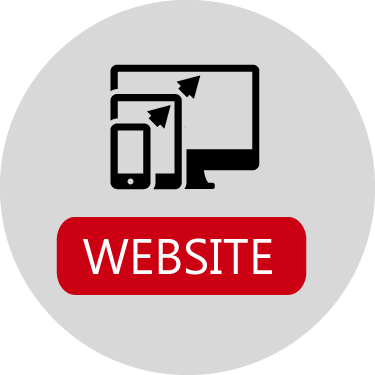
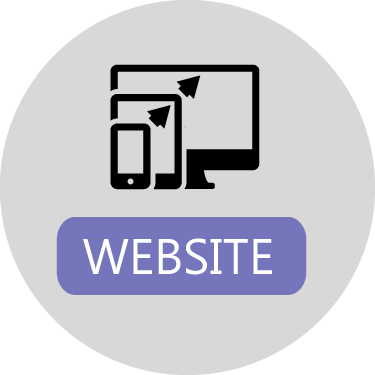
Removed Red from headings - too distracting

Changed region(s): [[0.1467, 0.5573, 0.8213, 0.792]]

diff --git a/templates/story_dashboard.html b/templates/story_dashboard.html
@@ -70,9 +70,9 @@
 		<section class="container">
 			<ul id='improved' class="js-accordion-container">
 			  <hr/>
-				<li><a href='#' class='head js-accordion-header brand-purple align-right'>IVRS  <span class="fa fa-angle-down"></span></a>
+				<li><a href='#' class='head js-accordion-header brand-turquoise align-right'>IVRS  <span class="fa fa-angle-down"></span></a>
 					<div class='content' id="ivrs">
-						<h2 class="heading-border brand-purple">IVRS Summary</h2> 
+						<h2 class="heading-border brand-turquoise">IVRS Summary</h2> 
 						<div class="chart-parent">
 			  	    <div id="ivrssummary" class="js-summary-container"></div>
 				  	</div><!--end inner parent-->
@@ -94,9 +94,9 @@
 					</div>
 				</li>
 				<hr/>
-				<li><a href='#' class='head js-accordion-header brand-red align-right'>WEBSITE  <span class="fa fa-angle-down"></span></a>
+				<li><a href='#' class='head js-accordion-header brand-purple align-right'>WEBSITE  <span class="fa fa-angle-down"></span></a>
 					<div class='content' id="website">
-						<h2 class="heading-border brand-red">Volunteer Observations</h2> 
+						<h2 class="heading-border brand-purple">Volunteer Observations</h2> 
 						<div class="chart-parent">
 			  	    <div id="websummary" class="js-summary-container"></div>				  	
 					  </div><!--end inner parent-->	
@@ -161,9 +161,9 @@
 		<section class="container">
 			<ul id='improved' class="js-accordion-container">
 			  <hr/>
-				<li><a href='#' class='head js-accordion-header brand-purple align-right'>IVRS  <span class="fa fa-angle-down"></span></a>
+				<li><a href='#' class='head js-accordion-header brand-turquoise align-right'>IVRS  <span class="fa fa-angle-down"></span></a>
 					<div class='content' id="ivrs">
-						<h2 class="heading-border brand-purple">IVRS Summary</h2> 
+						<h2 class="heading-border brand-turquoise">IVRS Summary</h2> 
 						<div class="chart-parent">
 			  	    <div id="ivrssummary_ang" class="js-summary-container"></div>
 				  	</div><!--end inner parent-->
@@ -185,9 +185,9 @@
 					</div>
 				</li>
 				<hr/>
-				<li><a href='#' class='head js-accordion-header brand-red align-right'>WEBSITE  <span class="fa fa-angle-down"></span></a>
+				<li><a href='#' class='head js-accordion-header brand-purple align-right'>WEBSITE  <span class="fa fa-angle-down"></span></a>
 					<div class='content' id="website">
-						<h2 class="heading-border brand-red">Volunteer Observations</h2> 
+						<h2 class="heading-border brand-purple">Volunteer Observations</h2> 
 						<div class="chart-parent">
 			  	    <div id="websummary_ang" class="js-summary-container"></div>				  	
 					  </div><!--end inner parent-->	

diff --git a/assets/static/js/story/init.js b/assets/static/js/story/init.js
@@ -326,7 +326,7 @@
             labels: labels,
             series: [
                 { 
-                    className: 'ct-series-e',
+                    className: 'ct-series-d',
                     data: meta_values,
                 }
             ]
